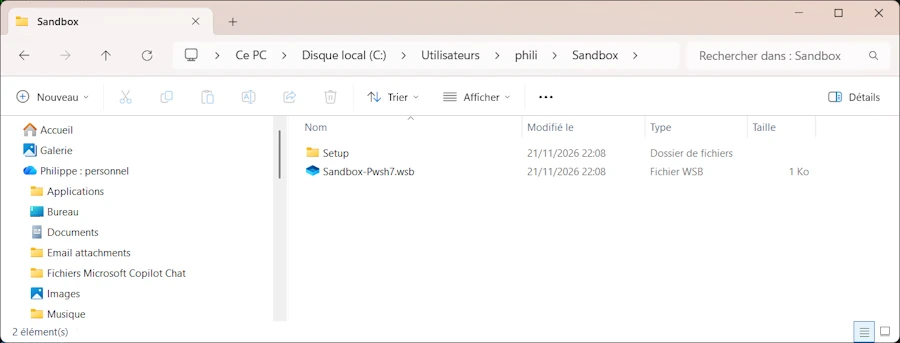
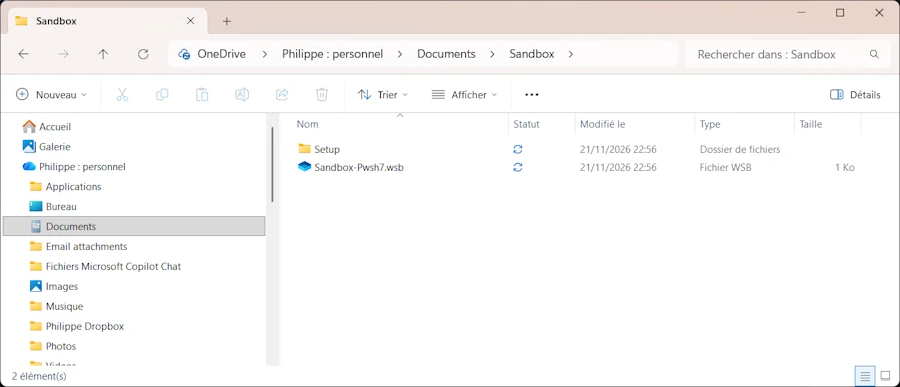
docs: move sandbox folders under Documents

diff --git a/docs/04_windows/029_windows_sandbox/windows_sandbox.md b/docs/04_windows/029_windows_sandbox/windows_sandbox.md
@@ -11,10 +11,10 @@ twitter:
   card: summary_large_image
 parent: "Windows"
 # nav_order: 36
-math: mathjax
+# math: mathjax
 date:               2026-11-21 15:20:13
 # last_modified_date is updated by tools/hooks/pre-commit
-last_modified_date: 2026-11-21 22:45:41
+last_modified_date: 2026-11-21 23:05:14
 ---
 
 
@@ -29,7 +29,7 @@ last_modified_date: 2026-11-21 22:45:41
 
 
 
-<h2 align="center"><span style="color:orange"><b> 🚧 This post is under construction 🚧</b></span></h2>
+<!-- <h2 align="center"><span style="color:orange"><b> 🚧 This post is under construction 🚧</b></span></h2> -->
 
 
 
@@ -411,12 +411,16 @@ whoami /groups | Select-String "Administrators|Mandatory Label"
 ```
 
 - [ ] **Quick test:** launch Windows Sandbox, copy-paste the installer into the Sandbox window, install, test, close the window. Everything is gone.
-- [ ] **One `.wsb` file per scenario**, for example `Test-AppA.wsb`, with networking off and a shared folder. To keep things tidy, everything lives under `$env:USERPROFILE\Sandbox\`: one subfolder per scenario, plus its `.wsb` file.
+- [ ] **One `.wsb` file per scenario**, for example `Test-AppA.wsb`, with networking off and a shared folder. To keep things tidy, everything lives under `Documents\Sandbox\`: one subfolder per scenario, plus its `.wsb` file. Putting it in `Documents` means it is backed up if `Documents` is synced with OneDrive.
 
-A `.wsb` file is plain XML and does **not** expand `$env:USERPROFILE`. So we let PowerShell write it, with the real path already filled in:
+{: .note }
+> When OneDrive backs up `Documents`, the real folder is `C:\Users\<name>\OneDrive\Documents`, **not** `$env:USERPROFILE\Documents`. That is why the scripts below ask Windows for the actual path with `[Environment]::GetFolderPath("MyDocuments")`. Without OneDrive, it simply returns `C:\Users\<name>\Documents`: the scripts work the same, with or without OneDrive.
+
+A `.wsb` file is plain XML and does **not** expand PowerShell variables or environment variables. So we let PowerShell write it, with the real path already filled in:
 
 ```powershell
-$hostFolder = "$env:USERPROFILE\Sandbox\AppA"
+$sandboxRoot = Join-Path ([Environment]::GetFolderPath("MyDocuments")) "Sandbox"
+$hostFolder  = Join-Path $sandboxRoot "AppA"
 New-Item -ItemType Directory -Path $hostFolder -Force | Out-Null   # HostFolder must exist
 
 @"
@@ -433,10 +437,10 @@ New-Item -ItemType Directory -Path $hostFolder -Force | Out-Null   # HostFolder 
     <Command>explorer.exe C:\Test</Command>
   </LogonCommand>
 </Configuration>
-"@ | Set-Content -Path "$env:USERPROFILE\Sandbox\Test-AppA.wsb" -Encoding UTF8
+"@ | Set-Content -Path (Join-Path $sandboxRoot "Test-AppA.wsb") -Encoding UTF8
 ```
 
-- [ ] Drop the installers to test into `$env:USERPROFILE\Sandbox\AppA`. In the Sandbox, they show up in `C:\Test`.
+- [ ] Drop the installers to test into `Documents\Sandbox\AppA`. In the Sandbox, they show up in `C:\Test`.
 - [ ] Double-click `Test-AppA.wsb` to start a Sandbox with those settings.
 - [ ] Use `<ReadOnly>true</ReadOnly>` when the mapped folder only holds installers, so the Sandbox cannot write back to the host.
 - [ ] On Windows 11 24H2+, script it with the CLI: `wsb start`, `wsb list`, `wsb exec`, `wsb stop`.
@@ -467,12 +471,13 @@ Do not add `-UseMSI`: the script would look for an `.msi` that no longer exists 
 
 The idea: download the `.zip` once on the host, share its folder read-only with the Sandbox, and let a `LogonCommand` unzip it and open PowerShell 7.
 
-Keep in mind that a `.wsb` file is plain XML: it does **not** expand `$env:USERPROFILE` (nor `%USERPROFILE%`). On top of that, inside the Sandbox `$env:USERPROFILE` points to `C:\Users\WDAGUtilityAccount`, not to our own profile. So we let PowerShell write the `.wsb` file with the host path already expanded, and we use a fixed path (`C:\Setup`) on the Sandbox side.
+Keep in mind that a `.wsb` file is plain XML: it does **not** expand `$env:USERPROFILE` (nor `%USERPROFILE%`, nor any other variable). On top of that, inside the Sandbox `$env:USERPROFILE` points to `C:\Users\WDAGUtilityAccount`, not to our own profile. So we let PowerShell write the `.wsb` file with the host path already expanded, and we use a fixed path (`C:\Setup`) on the Sandbox side.
 
 - [ ] On the host, in a PowerShell terminal (no need to be admin), copy and paste the code below:
 
 ```powershell
-$root = "$env:USERPROFILE\Sandbox\Setup"
+$sandboxRoot = Join-Path ([Environment]::GetFolderPath("MyDocuments")) "Sandbox"
+$root        = Join-Path $sandboxRoot "Setup"
 New-Item -ItemType Directory -Path $root -Force | Out-Null
 
 # 1. Download the latest PowerShell 7 x64 zip from GitHub
@@ -510,7 +515,7 @@ if ($zip) {
     <Command>powershell.exe -ExecutionPolicy Bypass -File C:\Setup\setup.ps1</Command>
   </LogonCommand>
 </Configuration>
-"@ | Set-Content -Path "$env:USERPROFILE\Sandbox\Sandbox-Pwsh7.wsb" -Encoding UTF8
+"@ | Set-Content -Path (Join-Path $sandboxRoot "Sandbox-Pwsh7.wsb") -Encoding UTF8
 ```
 
 <figure style="max-width: 900px; margin: auto; text-align: center;">
@@ -522,15 +527,15 @@ if ($zip) {
 <figcaption>After running the script: the Setup folder (zip + setup.ps1) and the Sandbox-Pwsh7.wsb file to double-click.</figcaption>
 </figure>
 
-- [ ] Check the generated file. `HostFolder` must contain the real path (`C:\Users\<name>\Sandbox\Setup`), not `$root`:
+- [ ] Check the generated file. `HostFolder` must contain the real path (for example `C:\Users\<name>\OneDrive\Documents\Sandbox\Setup`), not `$root`:
 
 ```powershell
-Get-Content "$env:USERPROFILE\Sandbox\Sandbox-Pwsh7.wsb"
+Get-Content (Join-Path ([Environment]::GetFolderPath("MyDocuments")) "Sandbox\Sandbox-Pwsh7.wsb")
 ```
 
 - [ ] On the host, double-click `Sandbox-Pwsh7.wsb`. Once the Sandbox desktop shows up, `setup.ps1` runs in the background and unzips PowerShell 7. Give it a few more seconds: a PowerShell 7 window then opens by itself. The `Setup` folder is shared read-only, so the Sandbox cannot write to our PC.
 - [ ] If we close that terminal window, `C:\pwsh` is in the machine `PATH`: `Win + R`, type `pwsh`, Enter.
-- [ ] To update PowerShell later, delete the old `.zip` from `$env:USERPROFILE\Sandbox\Setup` and rerun the script above.
+- [ ] To update PowerShell later, delete the old `.zip` from `Documents\Sandbox\Setup` and rerun the script above.
 
 
 <figure style="max-width: 900px; margin: auto; text-align: center;">
